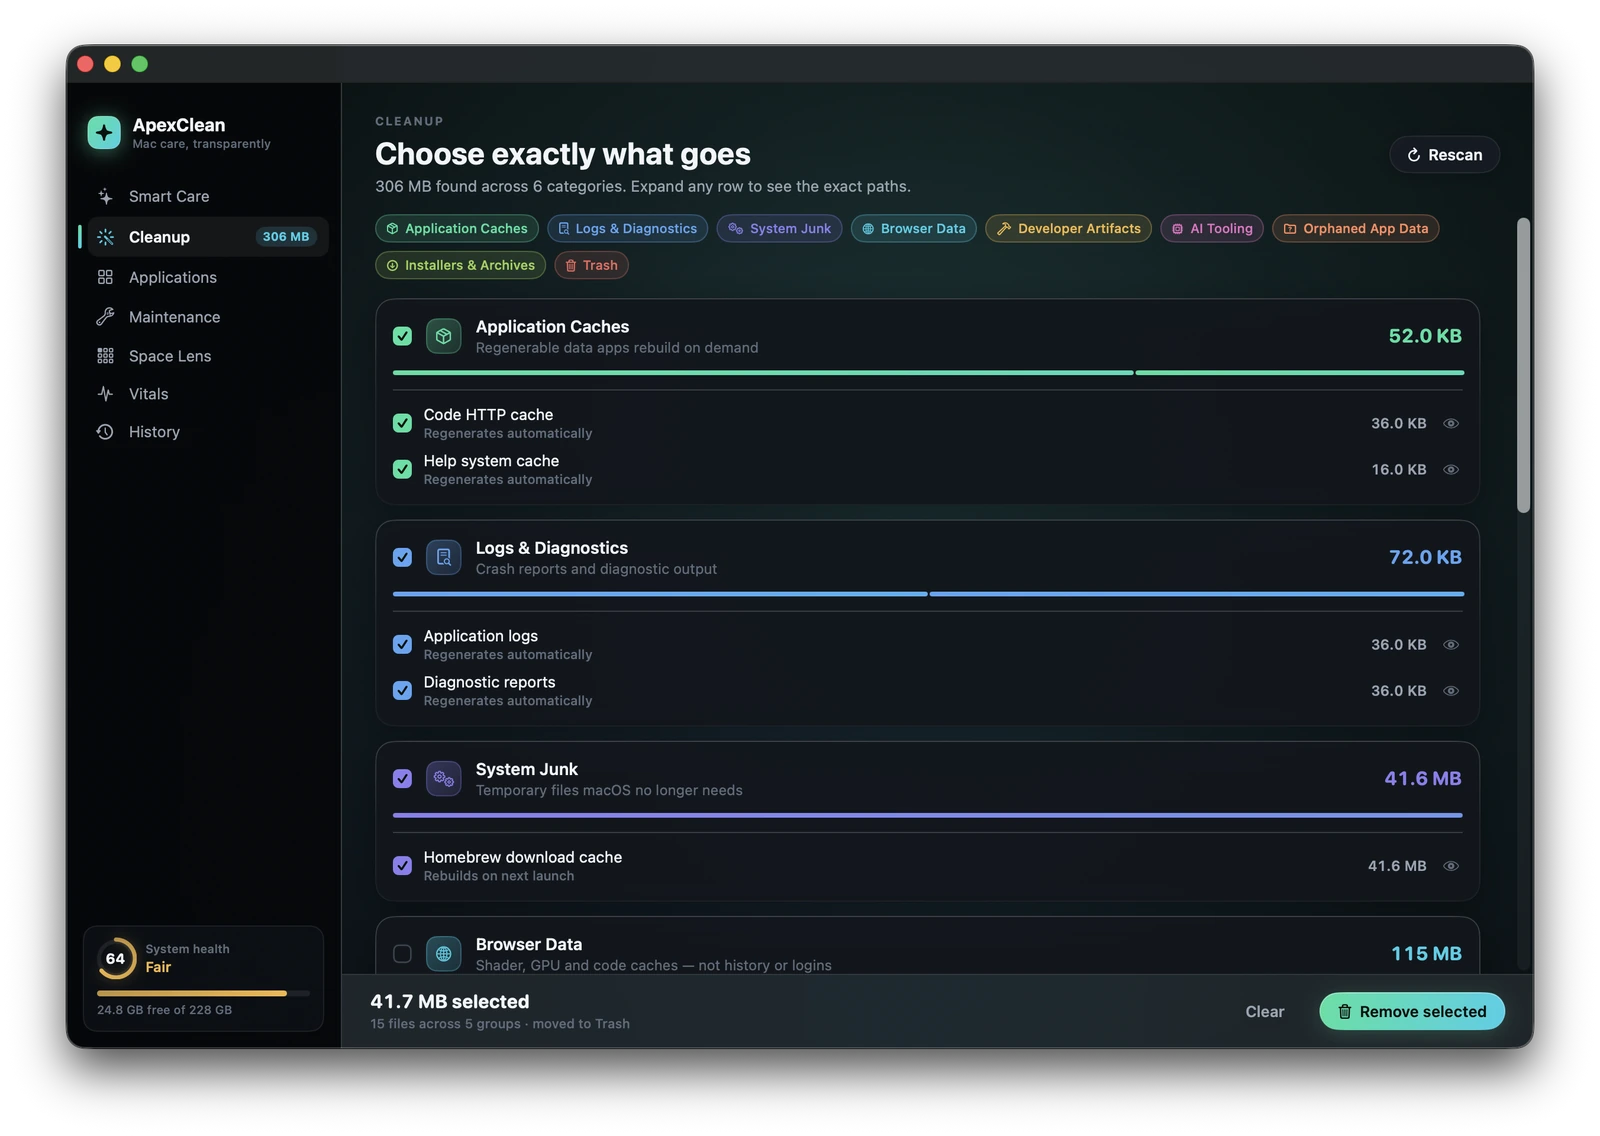
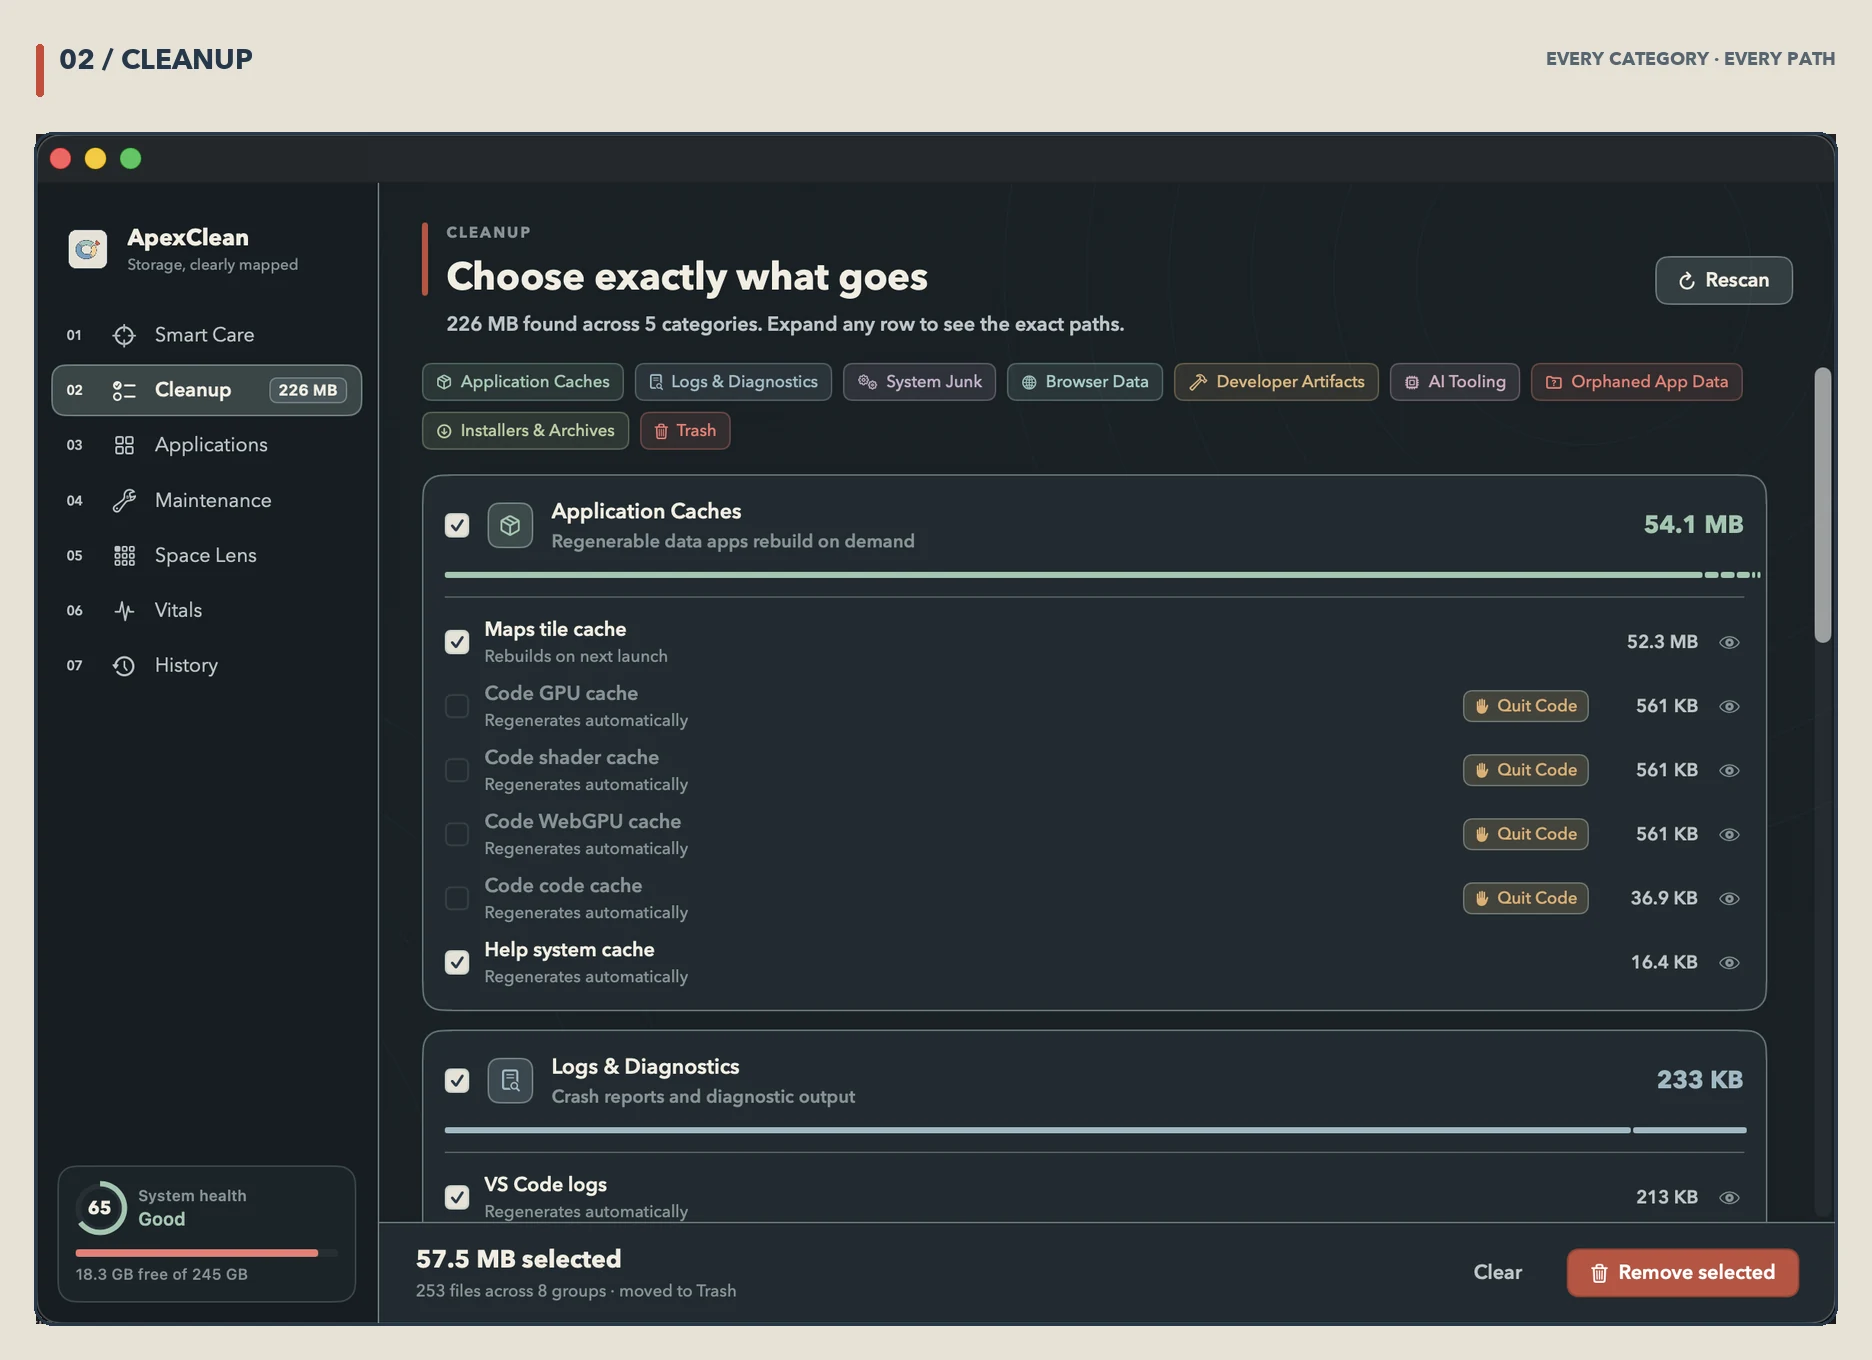
Redesign README for Coastal Atlas

diff --git a/README.md b/README.md
@@ -2,16 +2,18 @@
 
 <br>
 
-<img src="docs/images/icon.png" width="132" alt="ApexClean">
+<img src="docs/images/icon.png" width="112" alt="ApexClean Coastal Atlas icon">
+
+<p><sub><b>COASTAL ATLAS FOR macOS</b></sub></p>
 
 <h1>ApexClean</h1>
 
-<h3>Mac care, transparently.</h3>
+<h3>Storage, clearly mapped.</h3>
 
 <p>
 A free, native macOS care app that finds reclaimable space, uninstalls apps completely,<br>
 runs bounded maintenance, maps your disk and reports live system health —<br>
-and shows you <b>everything</b> before it touches <b>anything</b>.
+then shows you <b>everything</b> before it touches <b>anything</b>.
 </p>
 
 <p>
@@ -20,12 +22,12 @@ and shows you <b>everything</b> before it touches <b>anything</b>.
 </p>
 
 <p>
-<img src="https://img.shields.io/badge/macOS-14%2B-2FE0A0?style=for-the-badge&logo=apple&logoColor=FFFFFF&labelColor=11161D" alt="macOS 14+">
-<img src="https://img.shields.io/badge/Apple_Silicon_%2B_Intel-24CFE8?style=for-the-badge&labelColor=11161D" alt="Universal">
-<img src="https://img.shields.io/badge/Swift-5.9%2B-F5B841?style=for-the-badge&logo=swift&logoColor=FFFFFF&labelColor=11161D" alt="Swift 5.9+">
-<img src="https://img.shields.io/badge/tests-110_passing-35D48A?style=for-the-badge&labelColor=11161D" alt="110 tests">
-<img src="https://img.shields.io/badge/telemetry-none-8B7FF0?style=for-the-badge&labelColor=11161D" alt="No telemetry">
-<img src="https://img.shields.io/badge/license-GPL--3.0-E86FC4?style=for-the-badge&labelColor=11161D" alt="GPL-3.0">
+<img src="https://img.shields.io/badge/macOS-14%2B-4F7180?style=flat-square&logo=apple&logoColor=FFFFFF&labelColor=26384A" alt="macOS 14+">
+<img src="https://img.shields.io/badge/Apple_Silicon_%2B_Intel-426E5A?style=flat-square&labelColor=26384A" alt="Universal">
+<img src="https://img.shields.io/badge/Swift-5.9%2B-81501E?style=flat-square&logo=swift&logoColor=FFFFFF&labelColor=26384A" alt="Swift 5.9+">
+<img src="https://img.shields.io/badge/tests-144_passing-426E5A?style=flat-square&labelColor=26384A" alt="144 tests">
+<img src="https://img.shields.io/badge/telemetry-none-6D5878?style=flat-square&labelColor=26384A" alt="No telemetry">
+<img src="https://img.shields.io/badge/license-GPL--3.0-8F3832?style=flat-square&labelColor=26384A" alt="GPL-3.0">
 </p>
 
 <p>
@@ -34,6 +36,8 @@ and shows you <b>everything</b> before it touches <b>anything</b>.
 <a href="#the-safety-model"><b>Safety</b></a>
 &nbsp;·&nbsp;
 <a href="#privacy"><b>Privacy</b></a>
+&nbsp;·&nbsp;
+<a href="#coastal-atlas"><b>Design</b></a>
 &nbsp;·&nbsp;
 <a href="#install"><b>Install</b></a>
 &nbsp;·&nbsp;
@@ -44,7 +48,7 @@ and shows you <b>everything</b> before it touches <b>anything</b>.
 
 <br>
 
-<img src="docs/images/smartcare.webp" width="880" alt="ApexClean Smart Care — a scan result showing 306 MB reclaimable, broken into approved groups">
+<img src="docs/images/smartcare.webp" width="100%" alt="Coastal Atlas Smart Care showing a segmented storage map and reviewable findings">
 
 <br><br>
 
@@ -54,7 +58,7 @@ and shows you <b>everything</b> before it touches <b>anything</b>.
 
 <div align="center">
 
-### Every cleaner asks you to trust it. This one shows its work.
+### Map first. Review everything. Act only when you approve.
 
 </div>
 
@@ -62,7 +66,7 @@ and shows you <b>everything</b> before it touches <b>anything</b>.
 <tr>
 <td width="33%" valign="top">
 
-#### It looks before it acts
+#### 01 / Map
 
 There is no button that deletes something you haven't seen. Every screen's primary
 action is a **scan**. Removal is a second, separate, deliberate act — and it operates
@@ -71,7 +75,7 @@ only on the groups you ticked.
 </td>
 <td width="33%" valign="top">
 
-#### It explains, it doesn't alarm
+#### 02 / Review
 
 No red badges, no invented "problems", no inflated savings. If a group is 52 KB it
 says 52 KB. If a size can't be measured it says **Size unknown** rather than guessing
@@ -80,7 +84,7 @@ zero. Maintenance tasks state what they *won't* fix.
 </td>
 <td width="33%" valign="top">
 
-#### It fails closed
+#### 03 / Act
 
 `PathGuard` is the single choke point in front of every deletion, and it must find an
 affirmative reason to allow one. Anything ambiguous is refused, not resolved. Removals
@@ -94,12 +98,29 @@ go to the **Trash**, so undo is a drag away.
 
 ---
 
+## Coastal Atlas
+
+The interface treats storage as a map, not a warning. Warm paper, one charcoal
+contour weight, restrained coastal colour and a single brick action keep every
+screen readable without making routine cache files look dangerous.
+
+| Principle | Visible consequence |
+| :--- | :--- |
+| **Flat, honest surfaces** | Opaque panels and real borders; no glass, glow or decorative depth |
+| **Data before decoration** | The storage map, exact byte count and selected scope always lead |
+| **One action colour** | Brick marks the next deliberate action; category colour only explains data |
+| **Native, accessible type** | Humanist hierarchy, tabular metrics and contrast-safe semantic colours |
+
+<br>
+
+---
+
 ## What it does
 
-### Smart Care — one scan, grouped findings
+### 01 / Smart Care — one scan, grouped findings
 
 <div align="center">
-<img src="docs/images/review.webp" width="820" alt="The removal confirmation sheet: a per-group breakdown, a recovery note, and an optional 'Empty the Trash afterwards' toggle">
+<img src="docs/images/review.webp" width="100%" alt="Coastal Atlas removal confirmation showing grouped scope, recovery and the final action">
 </div>
 
 One pass across every category. Findings come back **grouped, sized and explained** —
@@ -114,10 +135,10 @@ that macOS keeps the Trash private unless the app has Full Disk Access.
 
 <br>
 
-### Cleanup — 417 rules, every path inspectable
+### 02 / Cleanup — 417 rules, every path inspectable
 
 <div align="center">
-<img src="docs/images/cleanup.webp" width="820" alt="The Cleanup screen: category chips, expandable groups, per-path sizes and a running selection total">
+<img src="docs/images/cleanup.webp" width="100%" alt="Coastal Atlas Cleanup with category filters, expanded evidence and a running selection total">
 </div>
 
 Filter by category, expand any row to the exact paths, reveal any of them in Finder
@@ -141,10 +162,10 @@ rather than whole application-support trees.
 
 <br>
 
-### Applications — install, update, and actually uninstall
+### 03 / Applications — install, update, and actually uninstall
 
 <div align="center">
-<img src="docs/images/applications.webp" width="820" alt="The Applications screen listing every installed app with its real on-disk size">
+<img src="docs/images/applications.webp" width="100%" alt="Coastal Atlas Applications inventory sorted by real on-disk size">
 </div>
 
 Every installed app with its **real on-disk size**, sortable, searchable, with the last
@@ -154,14 +175,14 @@ itself at login.
 <table>
 <tr>
 <td width="50%" valign="top">
-<img src="docs/images/updates.webp" width="100%" alt="The Updates tab showing seven available application updates with version transitions">
+<img src="docs/images/updates.webp" width="100%" alt="The Coastal Atlas Updates tab showing exact application version transitions">
 <p align="center"><b>Updates</b></p>
 <p>Outdated apps with the exact version transition, one at a time or all at once,
 with live progress. Backed by Homebrew casks when they're available, and clear about
 it when they aren't.</p>
 </td>
 <td width="50%" valign="top">
-<img src="docs/images/uninstall.webp" width="100%" alt="The uninstall review sheet for Microsoft Word, listing the bundle, support folders and sandbox containers with per-item evidence">
+<img src="docs/images/uninstall.webp" width="100%" alt="The Coastal Atlas uninstall review listing the bundle and sandbox containers with per-item evidence">
 <p align="center"><b>Uninstall</b></p>
 <p>Every leftover shown with the reason it was matched, individually checkable. Nothing
 is claimed without evidence — a bundle identifier or a reverse-DNS boundary. Generic
@@ -172,10 +193,10 @@ names are refused rather than guessed.</p>
 
 <br>
 
-### Maintenance — bounded tasks that admit their limits
+### 04 / Maintenance — bounded tasks that admit their limits
 
 <div align="center">
-<img src="docs/images/maintenance.webp" width="820" alt="The Maintenance screen: ten selectable tasks, each with a description, a duration estimate and a 'What it does' disclosure">
+<img src="docs/images/maintenance.webp" width="100%" alt="Coastal Atlas Maintenance showing ten bounded tasks and their selected state">
 </div>
 
 Ten real macOS maintenance operations — flush DNS, rebuild the icon cache, verify the
@@ -188,23 +209,25 @@ specific broken states, and the app tells you which of those it actually found.
 
 <br>
 
-### Space Lens — a treemap you can navigate
+### 05 / Space Lens — a treemap you can navigate
 
 <div align="center">
-<img src="docs/images/spacelens.webp" width="880" alt="Space Lens showing a squarified treemap of ~/Library/Application Support with a contents list and largest-files panel">
+<img src="docs/images/spacelens.webp" width="100%" alt="Coastal Atlas Space Lens showing a safe demo folder as a navigable allocated-size treemap">
 </div>
 
 An interactive squarified treemap of any folder, measured by **allocated size** — the
 space you actually get back, not the logical size. Click a tile to inspect it,
 double-click to descend, breadcrumb back out. The side panel keeps a running contents
 list and the largest individual files, each one revealable or removable in place.
+The screenshot uses a synthetic demo folder so the documentation never publishes a
+personal file tree.
 
 <br>
 
-### Vitals — live, local, and cheap
+### 06 / Vitals — live, local, and cheap
 
 <div align="center">
-<img src="docs/images/vitals.webp" width="820" alt="The Vitals dashboard: health score breakdown, processor, memory, storage, network, battery and thermal panels with live sparklines">
+<img src="docs/images/vitals.webp" width="100%" alt="Coastal Atlas Vitals with an itemised health score and live metric panels">
 </div>
 
 CPU, memory pressure, storage, network throughput, battery, thermal state, fans,
@@ -214,10 +237,10 @@ that deducted it, so the number is auditable instead of decorative.
 
 <br>
 
-### Menu bar — quiet by design
+### 07 / Menu bar — quiet by design
 
 <div align="center">
-<img src="docs/images/menubar.webp" width="330" alt="The menu bar HUD: a health ring, five metric rows with sparklines, and an expanded processor row showing top processes">
+<img src="docs/images/menubar.webp" width="380" alt="Coastal Atlas menu bar HUD with health, processor, memory, storage, network and battery">
 </div>
 
 An opt-in status item with a health ring and expandable metric rows. Expand one to see
@@ -391,7 +414,7 @@ make run
 | `make ci` | Run everything CI runs, locally |
 | `make clean` | Remove build products |
 
-`make app` produces a self-contained **6.3 MB** `dist/ApexClean.app`. There is no Xcode
+`make app` produces a self-contained **7.2 MB** `dist/ApexClean.app`. There is no Xcode
 project — the whole build is a SwiftPM package plus `Scripts/bundle.sh`, so a checkout
 builds identically anywhere with no IDE state involved.
 
@@ -424,6 +447,7 @@ Sources/
 │   └── History/               OperationLog
 └── ApexClean/                 SwiftUI app
     ├── Design/                Palette, Typography, Motion, components
+    ├── Resources/             Coastal Atlas app icon and onboarding artwork
     ├── Features/              One model + one view per screen
     ├── MenuBar/               HUD
     └── App/                   AppState, RootView, About
@@ -485,7 +509,7 @@ the head of a serial queue would otherwise swallow every job behind it.
 swift test
 ```
 
-**110 tests** covering `PathGuard` refusals, `PrivacyAccess` gating, traversal fences,
+**144 tests** covering `PathGuard` refusals, `PrivacyAccess` gating, traversal fences,
 bounded execution, guarded directory listing, leftover-matching precision, uninstall
 plan invariants, catalog invariants, treemap layout, health scoring and byte formatting.
 
@@ -583,7 +607,7 @@ interaction model and product identity are original work.
 
 <img src="docs/images/icon.png" width="56" alt="">
 
-<p><b>ApexClean</b> · Mac care, transparently.<br>
+<p><b>ApexClean</b> · Storage, clearly mapped.<br>
 <sub>Free software. No telemetry. Trash-first. Fails closed.</sub></p>
 
 </div>
